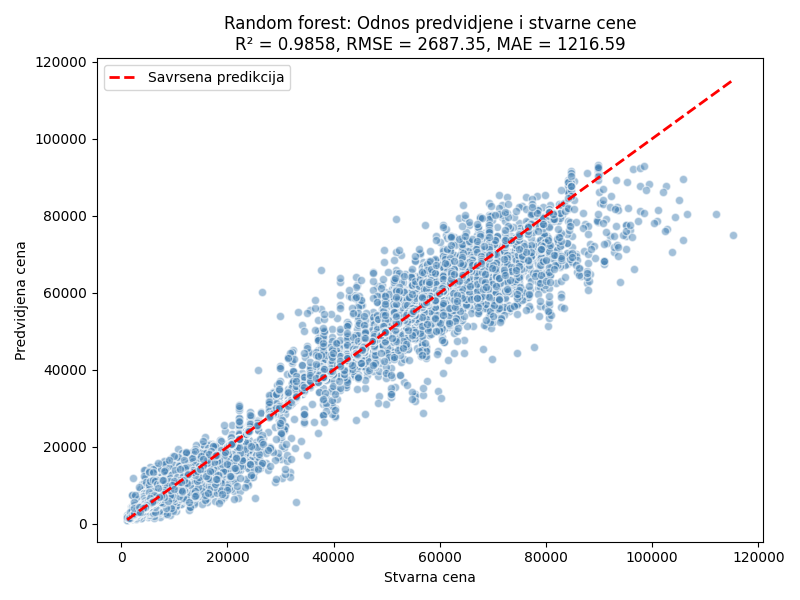
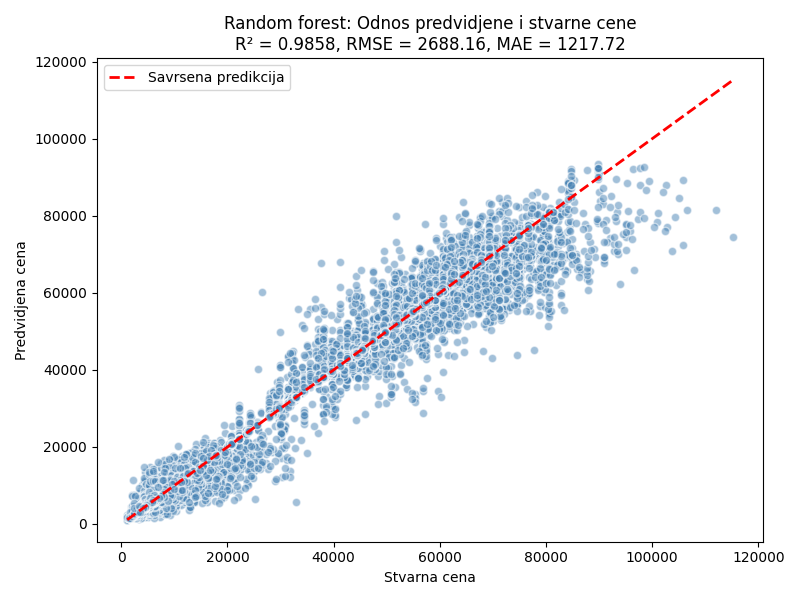
Saved tree models for feature analysis

diff --git a/src/random_forest.py b/src/random_forest.py
@@ -1,5 +1,6 @@
 import pandas as pd
 import numpy as np
+import joblib
 import matplotlib.pyplot as plt
 import os
 import json
@@ -43,7 +44,9 @@ print(greska[najbolji_estimator], najbolji_estimator)
 # 2783.787646741996 150 --> RMSE sa najboljim brojem estimatora 150
 # znam da nije usao u underfitting jer mu je najbolje rmse sa hiperparametrom koji nije poslednja vrednost iteracije
 randtree = RandomForestRegressor(
-    n_estimators=najbolji_estimator, min_samples_leaf=2, min_samples_split=20
+    n_estimators=150,  # najbolji_estimator
+    min_samples_leaf=2,
+    min_samples_split=20,
 )
 randtree.fit(X_train, y_train)
 y_pred = randtree.predict(X_test)
@@ -96,3 +99,10 @@ all_metrics["Random Forest"] = {"mae": mae, "rmse": rmse, "r2": r2}
 
 with open(METRICS_FILE, "w") as f:
     json.dump(all_metrics, f, indent=2)
+
+# --- Čuvanje modela ---
+MODELS_DIR = os.path.join(
+    os.path.dirname(os.path.dirname(os.path.abspath(__file__))), "models"
+)
+os.makedirs(MODELS_DIR, exist_ok=True)
+joblib.dump(randtree, os.path.join(MODELS_DIR, "random_forest.joblib"))

diff --git a/src/grad_boosting.py b/src/grad_boosting.py
@@ -1,5 +1,6 @@
 import pandas as pd
 import numpy as np
+import joblib
 import matplotlib.pyplot as plt
 import os
 import json
@@ -74,7 +75,7 @@ from preprocess import y_train_f as y_train
 # )
 # print("-" * 55 + "\n")
 
-# --- Finalni model na testu (odkomentariši kad si zadovoljna hiperparametrima) ---
+# --- Finalni model na testu
 gradboost = GradientBoostingRegressor(
     n_estimators=700,  # best_params[1]
     learning_rate=0.5,
@@ -135,3 +136,10 @@ all_metrics["Gradient Boosting"] = {"mae": mae, "rmse": rmse, "r2": r2}
 
 with open(METRICS_FILE, "w") as f:
     json.dump(all_metrics, f, indent=2)
+
+# --- Čuvanje modela ---
+MODELS_DIR = os.path.join(
+    os.path.dirname(os.path.dirname(os.path.abspath(__file__))), "models"
+)
+os.makedirs(MODELS_DIR, exist_ok=True)
+joblib.dump(gradboost, os.path.join(MODELS_DIR, "gradboost.joblib"))

diff --git a/src/decision_tree.py b/src/decision_tree.py
@@ -1,5 +1,6 @@
 import pandas as pd
 import numpy as np
+import joblib
 import matplotlib.pyplot as plt
 import os
 import json
@@ -107,3 +108,10 @@ all_metrics["Decision Tree"] = {"mae": mae, "rmse": rmse, "r2": r2}
 
 with open(METRICS_FILE, "w") as f:
     json.dump(all_metrics, f, indent=2)
+
+# --- Čuvanje modela ---
+MODELS_DIR = os.path.join(
+    os.path.dirname(os.path.dirname(os.path.abspath(__file__))), "models"
+)
+os.makedirs(MODELS_DIR, exist_ok=True)
+joblib.dump(dtree, os.path.join(MODELS_DIR, "decision_tree.joblib"))
